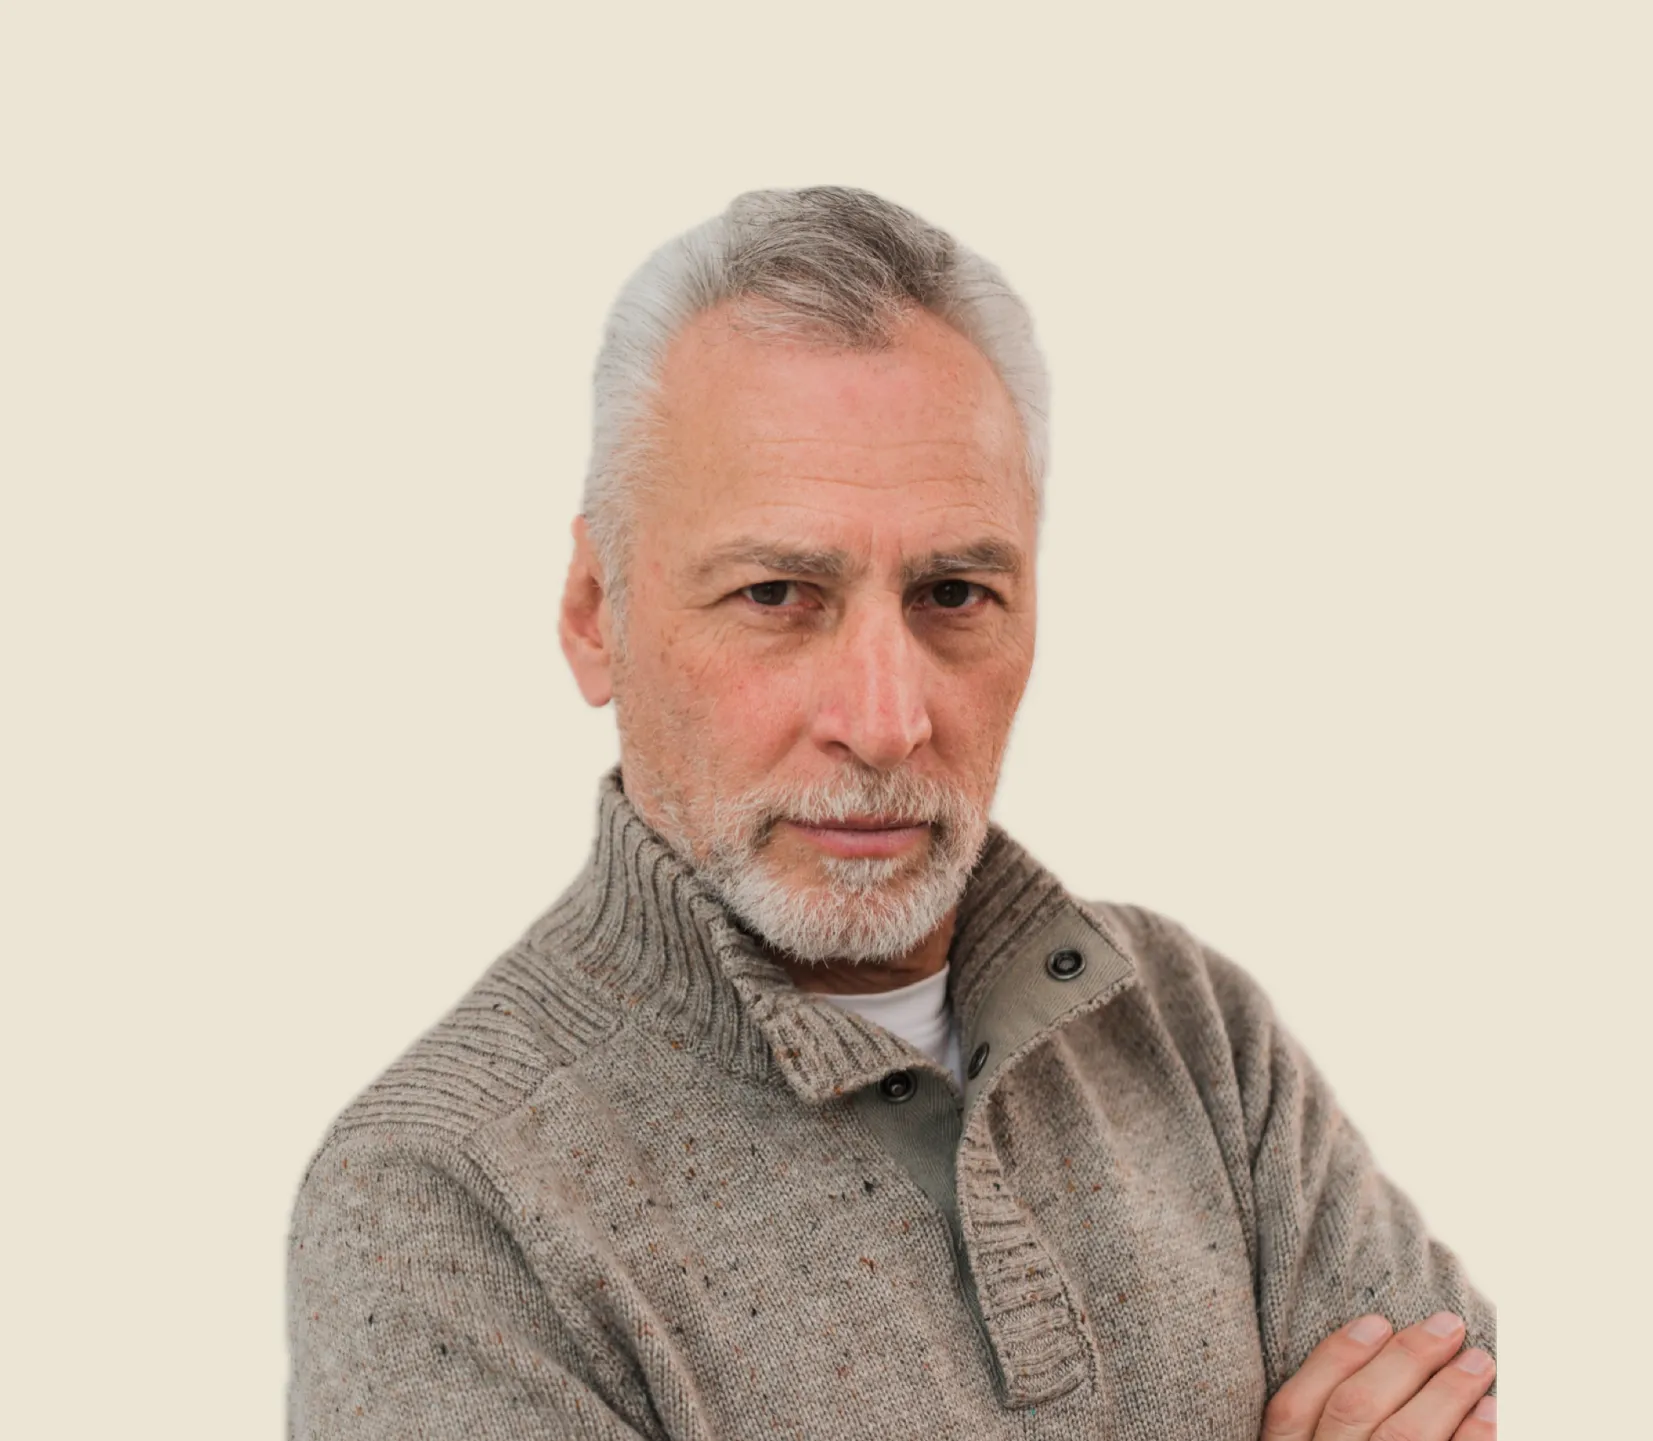
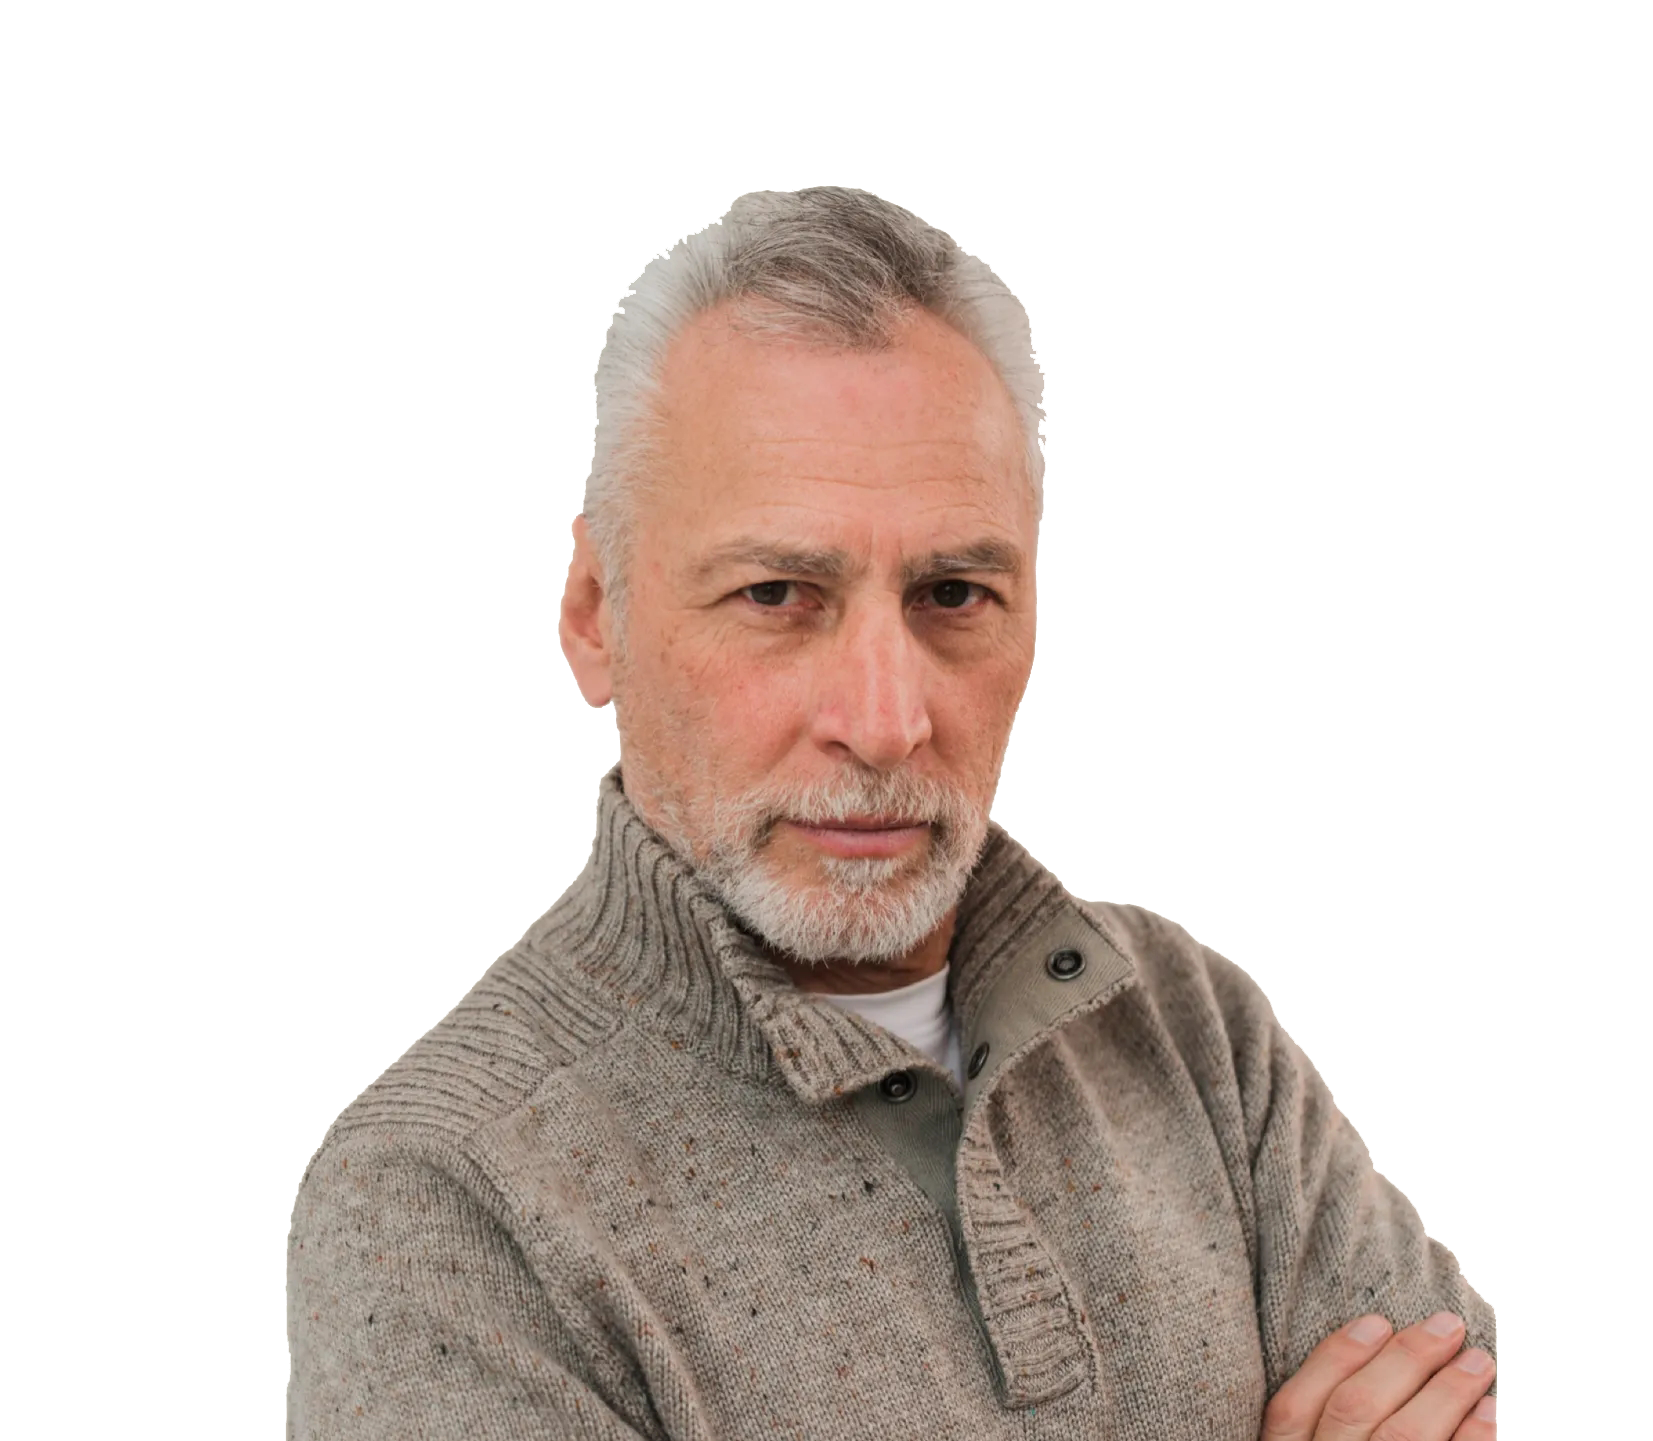
- Images alt for accessibility set - bug fix on chatbot display size - removed background from people images

diff --git a/layouts/default.vue b/layouts/default.vue
@@ -69,16 +69,16 @@ async function onChatbotSend() {
                 const answerMess = await response.text()
                 history.push({role: "model", parts: [{text: answerMess}]})
                 messages.value.push({role: "model", parts: [{text: convert(answerMess)}]})
+                if (window.innerWidth > 800 && (newMessage.length >= 1000 || answerMess.length >= 1000)) {
+                    document.getElementById("chatbot").style.width = '60%';
+                    document.getElementById("chatbot").style.height = '85%';
+                }
             } else {
                 messages.value.push({
                     role: "model",
                     parts: [{text: "I'm sorry but I'm not able to give you an answer in that moment, due to temporarily unavailability of the server. Please, try again."}]
                 })
                 history.pop()
-            }
-            if (window.innerWidth > 800 && (newMessage.length >= 1000 || response.text().length >= 1000)) {
-                document.getElementById("chatbot").style.width = '60%';
-                document.getElementById("chatbot").style.height = '85%';
             }
         })
         isQueuing = false;
@@ -101,20 +101,17 @@ function convert(message) {
 <template>
     <header>
         <div @click="$router.push('/')" style="cursor: pointer;">
-            <img alt="Logo" class="logo" src="~/assets/logos/logo.png"/>
+            <img alt="" class="logo" src="@/assets/logos/logo.png"/>
             <div>
                 <div class="title-with-lines" id="main-title">
                     <h1>Brave Sisters</h1>
                 </div>
                 <h2>ONE FOR ALL, ALL FOR WOMEN</h2>
             </div>
-
-
         </div>
-
         <div>
             <div id="menu">
-                <img alt="Menu" class="ourIcon" src="~/assets/icons/menu.png"
+                <img alt="Open menu" class="ourIcon" src="@/assets/icons/menu.png"
                      @click="changeDisplay($event, $event.target.parentElement.querySelector('nav'));"/>
                 <div style="text-align: right;">
                     <NuxtLink to="/contact-us">
@@ -123,7 +120,6 @@ function convert(message) {
                         </button>
                     </NuxtLink>
                 </div>
-
                 <nav>
                     <NuxtLink to="/about-us">About us</NuxtLink>
                     <NuxtLink to="/people">People</NuxtLink>
@@ -136,23 +132,20 @@ function convert(message) {
                             <NuxtLink to="/projects">Projects</NuxtLink>
                             <NuxtLink to="/services">Services</NuxtLink>
                         </div>
-                        <img alt="Arrow down" class="ourIcon" src="~/assets/icons/arrow down.png"
+                        <img alt="Open submenu" class="ourIcon" src="@/assets/icons/arrow down.png"
                              @click="changeDisplay($event, $event.target.previousElementSibling)">
                     </div>
                 </nav>
             </div>
-
         </div>
-
-
     </header>
 
     <main>
-        <img id="chatbot-icon" @click="showChatbot()" src="~/assets/icons/chatbot.png" alt="ChatBot"/>
+        <img id="chatbot-icon" @click="showChatbot()" src="@/assets/icons/chatbot.png" alt="Open chatbot"/>
         <div id="chatbot" style="display: none;">
             <div id="chatbot-top-bar">
                 <p>Ask me!</p>
-                <img src="~/assets/icons/delete.png" @click="showChatbot()" alt="Close"/>
+                <img src="@/assets/icons/delete.png" @click="showChatbot()" alt="Close chatbot"/>
             </div>
             <div id="chatbot-messages">
                 <template v-for="element in messages">
@@ -163,7 +156,7 @@ function convert(message) {
             <div id="chatbot-send-bar">
                 <input v-model="inputValue" v-on:keyup.enter="onChatbotSend()"
                        placeholder="Send a message to the bot."/>
-                <img src="~/assets/icons/send-icon.png" @click="onChatbotSend()" alt="Send"/>
+                <img src="@/assets/icons/send-icon.png" @click="onChatbotSend()" alt="Send message to the chatbot"/>
             </div>
         </div>
         <slot/>
@@ -172,7 +165,7 @@ function convert(message) {
     <footer>
         <div>
             <div style="border-radius: 15px 15px 15px 5px; background-color:  rgba(255,255,255,0.8);">
-                <img class="ourIcon" src="~/assets/icons/address.png" alt="Address"/>
+                <img class="ourIcon" src="@/assets/icons/address.png" alt=""/>
                 <div style="display: initial;">
                     <p style="letter-spacing: .1rem;">ADDRESS</p>
                     <p>Via di Grignano, 102 - Prato (PO)</p>
@@ -180,7 +173,7 @@ function convert(message) {
 
             </div>
             <div style="border-radius: 15px; background-color:  rgba(255,255,255,0.8);">
-                <img class="ourIcon" src="~/assets/icons/hour.png" alt="Address"/>
+                <img class="ourIcon" src="@/assets/icons/hour.png" alt=""/>
                 <div style="display: initial;">
                     <p style="letter-spacing: .1rem;">OPENING HOURS</p>
                     <p>Mon - Fri: 9:00 - 12:00 | 13:00 - 18:00<br>
@@ -189,7 +182,7 @@ function convert(message) {
                 </div>
             </div>
             <div style="border-radius: 15px 15px 5px 15px; background-color:  rgba(255,255,255,0.9);">
-                <img class="ourIcon" src="@/assets/icons/phone-call.png" alt="Address"/>
+                <img class="ourIcon" src="@/assets/icons/phone-call.png" alt=""/>
                 <div style="display: initial;">
                     <p style="letter-spacing: .1rem;">PHONE NUMBER</p>
                     <p>+39 0574 53695</p>
@@ -260,6 +253,7 @@ header > div {
 /*************** MENU ****************/
 .router-link-active, .router-link-exact-active {
     color: #4c8189;
+    font-weight: 650;
 }
 .router-link-active > button, .router-link-exact-active > button {
     background-color: #b7403c;

diff --git a/pages/index.vue b/pages/index.vue
@@ -75,10 +75,13 @@ function goToServices() {
                         <br>
                         We're here for you and for your safety! You're not alone.</p>
                     </div>
-                    <div class="image-container" @click="goToPeople">
-                        <img src="/img/homepage/collaboration_1.webp" alt="Staff photo"/>
-                        <div class="hover-text">Meet the team</div>
-                        <div class="hover-overlay"></div>
+                    <div>
+                        <div class="title-with-lines"><h2>People</h2></div>
+                        <div class="image-container" @click="goToPeople">
+                            <img src="/img/homepage/collaboration_1.webp" alt="Go to people"/>
+                            <div class="hover-text">Meet the team</div>
+                            <div class="hover-overlay"></div>
+                        </div>
                     </div>
                 </div>
 
@@ -113,7 +116,7 @@ function goToServices() {
                         <div>
                             <div class="title-with-lines"><h2>Projects</h2></div>
                             <div class="image-container" @click="goToProjects">
-                                <img src="/img/homepage/1.webp" alt="Staff photo"/>
+                                <img src="/img/homepage/1.webp" alt="Go to projects"/>
                                 <div class="hover-text">Discover our projects</div>
                                 <div class="hover-overlay"></div>
                             </div>
@@ -121,7 +124,7 @@ function goToServices() {
                         <div>
                             <div class="title-with-lines"><h2>Services</h2></div>
                             <div class="image-container" @click="goToServices">
-                                <img src="/img/homepage/2.webp" alt="Staff photo"/>
+                                <img src="/img/homepage/2.webp" alt="Go to services"/>
                                 <div class="hover-text">Discover our services</div>
                                 <div class="hover-overlay"></div>
                             </div>

diff --git a/components/GeneralInfoComponent.vue b/components/GeneralInfoComponent.vue
@@ -44,7 +44,7 @@ const getImageSrc = () => {
     </div>
     <div class="title-with-lines"><h2>{{ props.context }}</h2></div>
     <NuxtLink class="desktopVisible" :href="getPrevId()">
-        <img alt="Left arrow" class="arrow" id="left-arrow" src="~/assets/icons/left-arrow.png"/>
+        <img alt="Back to all elements" class="arrow" id="left-arrow" src="@/assets/icons/left-arrow.png"/>
     </NuxtLink>
     <div class="generalInfo">
 
@@ -59,14 +59,14 @@ const getImageSrc = () => {
 
     </div>
     <NuxtLink class="desktopVisible" :href="getNextId()">
-        <img alt="Right arrow" class="arrow" id="right-arrow" src="~/assets/icons/right-arrow.png"/>
+        <img alt="Next element" class="arrow" id="right-arrow" src="@/assets/icons/right-arrow.png"/>
     </NuxtLink>
     <div class="reducedVisible">
         <NuxtLink  :href="getPrevId()">
-            <img alt="Left arrow" class="arrow" src="~/assets/icons/left-arrow.png"/>
+            <img alt="Left arrow" class="arrow" src="@/assets/icons/left-arrow.png"/>
         </NuxtLink>
         <NuxtLink :href="getNextId()">
-            <img alt="Right arrow" class="arrow" src="~/assets/icons/right-arrow.png"/>
+            <img alt="Previous element" class="arrow" src="@/assets/icons/right-arrow.png"/>
         </NuxtLink>
     </div>
 
@@ -113,6 +113,7 @@ button {
     height: 300px;
     object-fit: cover;
     border-radius: 50%;
+    background-color: #d4dae5;
 }
 
 

diff --git a/pages/projects.vue b/pages/projects.vue
@@ -34,7 +34,7 @@
     <div class="title-with-lines" id="main-title"><h1>Projects</h1></div>
     <section id="project">
     <div class="two-columns">
-      <img src="/img/projects/home_3.webp" alt="People Image" />
+      <img src="/img/projects/home_3.webp" alt="" />
       <div>
         <p>Brave Sisters offers a range of projects aimed at empowering women affected by domestic violence, fostering resilience and promoting a brighter future. Our initiatives engage survivors and past victims in meaningful actions to reclaim their lives. From vocational training programs designed to enhance job skills and promote financial independence, to community-driven efforts that encourage women to share their experiences and support one another, each project is crafted to empower and inspire.
           Additionally, we focus on securing a stable future for children impacted by violence, providing essential support and resources. Our projects also include sports activities aimed at improving both mental and physical health, contributing to holistic recovery.</p>

diff --git a/components/GalleryComponent.vue b/components/GalleryComponent.vue
@@ -44,12 +44,12 @@ function previousImages() {
     <section class="gallery">
         <div class="title-with-lines"><h2>Gallery</h2></div>
         <div class="gallery-container">
-            <img src="~/assets/icons/left-arrow.png" v-show="numberOfImages > shownImages" @click="previousImages" class="arrow"/>
+            <img alt="Previous image" src="@/assets/icons/left-arrow.png" v-show="numberOfImages > shownImages" @click="previousImages" class="arrow"/>
             <div class="gallery-images">
                 <img v-for="i in shownImages" :src="imgBasePath + ((currImage + i - 1) % numberOfImages) + '.webp'"
                      :alt="'Gallery image ' + ((currImage + i - 1) % numberOfImages)">
             </div>
-            <img class="arrow" src="~/assets/icons/right-arrow.png" v-show="numberOfImages > shownImages" @click="nextImages" />
+            <img alt="Next image" class="arrow" src="@/assets/icons/right-arrow.png" v-show="numberOfImages > shownImages" @click="nextImages" />
         </div>
     </section>
 </template>

diff --git a/pages/services.vue b/pages/services.vue
@@ -32,7 +32,7 @@ const mainImagePath = "/img/services/MAIN.png"
     <div class="title-with-lines" id="main-title"><h1>Services</h1></div>
     <section id="service">
     <div class="two-columns">
-      <img src="/img/services/home_2.webp" alt="People Image" />
+      <img src="/img/services/home_2.webp" alt="" />
       <div>
         <p>At Brave Sisters, we provide essential support and guidance to women who have experienced domestic violence. Our services encompass psychological counseling to help manage trauma, legal assistance to navigate the judicial process, safety planning during times of crisis, job placement aid for financial independence, and expert advice on dealing with stalking situations. Each service is tailored to address the unique needs of our clients, empowering them to rebuild their lives with confidence and security.</p>
       </div>

diff --git a/components/MainImageComponent.vue b/components/MainImageComponent.vue
@@ -42,14 +42,14 @@ onMounted(() => {
 
 <template>
     <div id="center" :class="left ? 'image-text-container-left' : 'image-text-container-right'">
-        <img v-if="left" id="main-img" :src="photoComputedSrc" alt="Building photo"/>
+        <img v-if="left" id="main-img" :src="photoComputedSrc" alt=""/>
         <div class="text-overlay" :style="!left ? 'align-items: flex-end;' : ''">
           <span v-for="(text, index) in paragraphs" :key="index"
                 :class="{ 'visible': textVisibility[index] }" class="text-line">
             {{ text }}
           </span>
         </div>
-        <img v-if="!left" id="main-img" :src="photoComputedSrc" style="border-radius: 0 0 0 20px;" alt="Building photo"/>
+        <img v-if="!left" id="main-img" :src="photoComputedSrc" style="border-radius: 0 0 0 20px;" alt=""/>
     </div>
 </template>
 

diff --git a/components/ListComponent.vue b/components/ListComponent.vue
@@ -20,7 +20,7 @@ const getImageSrc = (type, id) => {
 <template>
   <NuxtLink :href="(id !== undefined) ? '/' + type + '-' + id.toString() : ''" class="border">
     <div class="generalInfo">
-      <img v-if="type !== 'review'" class="portrait" alt="Portrait" :src="getImageSrc(type, id)" />
+      <img v-if="type !== 'review'" class="portrait" alt="" :src="getImageSrc(type, id)" />
       <h3> {{ name }}</h3>
       <h4>{{ subtitle }}</h4>
       <p style="font-size: 80%">{{ content }}</p>
@@ -59,6 +59,7 @@ const getImageSrc = (type, id) => {
   object-fit: cover;
   margin: 5%;
   border-radius: 50%;
+    background-color: #d4dae5;
 }
 @media (max-width: 250px) {
     .border {

diff --git a/pages/people.vue b/pages/people.vue
@@ -39,7 +39,7 @@ useHead({
     <div class="title-with-lines" id="main-title"><h1>People</h1></div>
     <section>
         <div class="two-columns">
-            <img src="/img/people/collaboration.webp" alt="People Image"/>
+            <img src="/img/people/collaboration.webp" alt=""/>
             <div>
                 <p>At Brave Sister Center, our team consists of highly qualified professionals dedicated to supporting
                     women in need. Our staff includes psychologists specialized in gender-based violence, social workers

diff --git a/components/RelatedElementComponent.vue b/components/RelatedElementComponent.vue
@@ -32,7 +32,7 @@ const getImageSrc = (type, id) => {
 
 <template>
     <div @click="router.push(`/` + props.type + '-' + props.id);" class="element">
-        <img :src="getImageSrc(type, id)" alt="Element Image"/>
+        <img :src="getImageSrc(type, id)" alt=""/>
         <h3>{{ name }}</h3>
         <p>{{ description.slice(0, 250) + '...' }}</p>
     </div>
@@ -63,5 +63,6 @@ const getImageSrc = (type, id) => {
     object-fit: cover;
     margin: 5%;
     border-radius: 50%;
+    background-color: #d4dae5;
 }
 </style>

diff --git a/pages/about-us.vue b/pages/about-us.vue
@@ -64,7 +64,7 @@ const mainImagePath = "/img/about-us-MAIN.png"
                     </p>
                 </div>
             </section>
-            <img id="center-picture" src="public/img/homepage/building_photo.webp" alt="Building photo"/>
+            <img id="center-picture" src="/img/homepage/building_photo.webp" alt=""/>
             <section>
                 <div class="title-with-lines"><h2>Location</h2></div>
                 <section class="two-columns">
